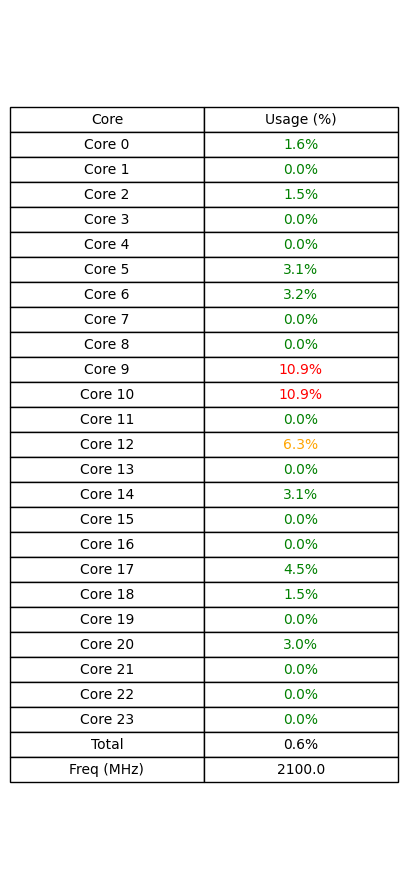
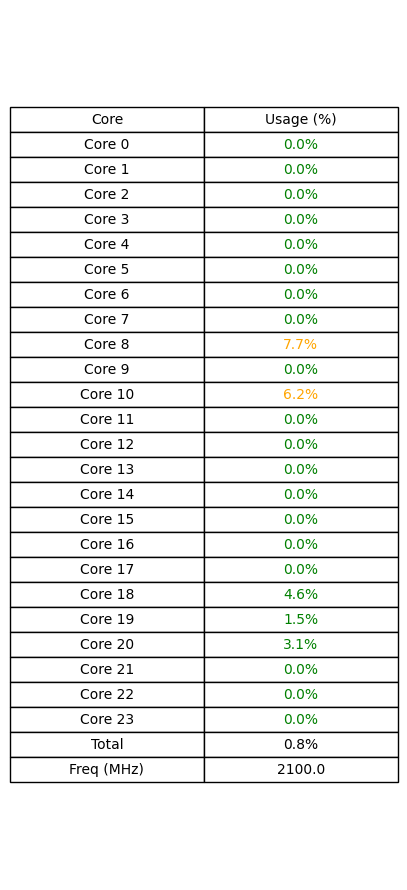
made a better graph to track cpu

diff --git a/monitor/network.py b/monitor/network.py
@@ -1,88 +1,5 @@
-import psutil
-from rich.table import Table
-from rich.console import Console
-import time
 
-def get_network_data():
-    """
-    Returns per-interface and global network usage.
-    Reports total bytes sent/received and packet counts.
-    """
-    io = psutil.net_io_counters(pernic=True)
-    summary = psutil.net_io_counters()
 
-    interfaces = []
-    for iface, stats in io.items():
-        interfaces.append({
-            "name": iface,
-            "bytes_sent": stats.bytes_sent,
-            "bytes_recv": stats.bytes_recv,
-            "packets_sent": stats.packets_sent,
-            "packets_recv": stats.packets_recv
-        })
 
-    return {
-        "interfaces": interfaces,
-        "summary": {
-            "total_sent": summary.bytes_sent,
-            "total_recv": summary.bytes_recv,
-            "total_packets_sent": summary.packets_sent,
-            "total_packets_recv": summary.packets_recv
-        }
-    }
-
-def get_network_rate(interval=1.0):
-    """
-    Measures network send/recv rate (in bytes/sec) over a given interval.
-    Returns rate in bytes/sec.
-    """
-    t0 = psutil.net_io_counters()
-    time.sleep(interval)
-    t1 = psutil.net_io_counters()
-
-    sent_rate = (t1.bytes_sent - t0.bytes_sent) / interval
-    recv_rate = (t1.bytes_recv - t0.bytes_recv) / interval
-
-    return {
-        "sent_per_sec": sent_rate,
-        "recv_per_sec": recv_rate
-    }
-
-def print_network_stats(console: Console):
-    # Pull interface stats
-    data = get_network_data()
-
-    # Print interface-level table
-    table = Table(title="Network Interfaces")
-    table.add_column("Interface", style="cyan")
-    table.add_column("Sent (MB)", justify="right")
-    table.add_column("Recv (MB)", justify="right")
-    table.add_column("Packets Sent", justify="right")
-    table.add_column("Packets Recv", justify="right")
-
-    for iface in data["interfaces"]:
-        table.add_row(
-            iface["name"],
-            f"{iface['bytes_sent'] / 1e6:.2f}",
-            f"{iface['bytes_recv'] / 1e6:.2f}",
-            f"{iface['packets_sent']}",
-            f"{iface['packets_recv']}"
-        )
-
-    console.print(table)
-
-    # Print global totals
-    summary = data["summary"]
-    console.print(f"[bold yellow]Total Sent:[/bold yellow] {summary['total_sent'] / 1e6:.2f} MB")
-    console.print(f"[bold yellow]Total Received:[/bold yellow] {summary['total_recv'] / 1e6:.2f} MB")
-
-    # Print live rate (after 1s interval)
-    rate = get_network_rate(interval=1.0)
-    console.print(f"[cyan]Send Rate:[/cyan] {rate['sent_per_sec'] / 1e6:.2f} MB/s")
-    
-    if rate['recv_per_sec'] >= 1e6:
-        console.print(f"[cyan]Receive Rate:[/cyan] {rate['recv_per_sec'] / 1e6:.2f} MB/s")
-    else:
-        console.print(f"[cyan]Receive Rate:[/cyan] {rate['recv_per_sec'] / 1e3:.2f} KB/s")
 
 

diff --git a/tables/cpu_tables.py b/tables/cpu_tables.py
@@ -1,0 +1,60 @@
+import threading
+import time
+import psutil
+import tkinter as tk
+from tkinter import ttk
+
+class LiveCPUTracker:
+    def __init__(self, callback):
+        self.callback = callback  # Function to update GUI
+        self.running = False
+
+    def start(self):
+        self.running = True
+        threading.Thread(target=self._run, daemon=True).start()
+
+    def stop(self):
+        self.running = False
+
+    def _run(self):
+        psutil.cpu_percent(interval=None)  # Prime counters
+        while self.running:
+            usage_per_core = psutil.cpu_percent(interval=1.0, percpu=True)
+            total_usage = sum(usage_per_core) / len(usage_per_core)
+            freq = psutil.cpu_freq()
+            data = {
+                "usage_per_core": usage_per_core,
+                "total_usage": total_usage,
+                "freq": freq.current if freq else None,
+            }
+            self.callback(data)  # Let GUI update safely
+
+class LiveCPUTable(ttk.Frame):
+    def __init__(self, parent):
+        super().__init__(parent)
+        self.tree = ttk.Treeview(self, columns=("Core", "Usage"), show="headings", height=10)
+        self.tree.heading("Core", text="Core")
+        self.tree.heading("Usage", text="Usage (%)")
+        self.tree.pack(expand=True, fill="both")
+        self.cpu_tracker = LiveCPUTracker(self.schedule_update)
+        self.cpu_tracker.start()
+
+    def schedule_update(self, data):
+        self.after(0, lambda: self.update_table(data))  # Schedule safely on main thread
+
+    def update_table(self, data):
+        self.tree.delete(*self.tree.get_children())
+        for i, usage in enumerate(data["usage_per_core"]):
+            self.tree.insert("", "end", values=(f"Core {i}", f"{usage:.1f}%"))
+        self.tree.insert("", "end", values=("Total", f"{data['total_usage']:.1f}%"))
+        self.tree.insert("", "end", values=("Freq", f"{data['freq']:.1f} MHz"))
+
+if __name__ == "__main__":
+    root = tk.Tk()
+    root.geometry("300x400")
+    root.title("CPU Monitor")
+
+    cpu_widget = LiveCPUTable(root)
+    cpu_widget.pack(expand=True, fill="both")
+
+    root.mainloop()

diff --git a/monitor/alerts.py b/monitor/alerts.py
@@ -41,18 +41,7 @@ def check_bottlenecks(console: Console):
 
     disk_usages = {p["mountpoint"]: p["percent"] for p in disk_data["partitions"]}
 
-    # Network bottleneck (basic threshold for high activity)
-    rate_data = network.get_network_rate()
-    sent_rate = rate_data["sent_per_sec"]
-    recv_rate = rate_data["recv_per_sec"]
-
-    if recv_rate > rate_threshold or sent_rate > rate_threshold:
-        alerts.append(f"🌐 [bold red]High Network bandwidth:[/bold red] Send {sent_rate / 1e6:.2f} MB/s, Recv {recv_rate / 1e6:.2f} MB/s")
-
-    net_summary = {
-    "sent": sent_rate,
-    "recv": recv_rate
-    }
+    
 
     # Output
     if alerts:
@@ -61,9 +50,9 @@ def check_bottlenecks(console: Console):
         console.print(Panel.fit("✅ All systems within normal limits", title="System Status", style="green"))
 
     # Summary chart
-    print_usage_summary(console, cpu_usage, mem_usage, disk_usages, net_summary)
+    print_usage_summary(console, cpu_usage, mem_usage, disk_usages)
 
-def print_usage_summary(console, cpu_usage, mem_usage, disk_usages, net_summary):
+def print_usage_summary(console, cpu_usage, mem_usage, disk_usages):
     table = Table(title="Component Usage Summary")
     table.add_column("Component", style="cyan")
     table.add_column("Usage", justify="right", style="magenta")
@@ -72,9 +61,6 @@ def print_usage_summary(console, cpu_usage, mem_usage, disk_usages, net_summary)
     table.add_row("Memory", f"{mem_usage:.1f}%")
     for part, usage in disk_usages.items():
         table.add_row(f"Disk {part}", f"{usage:.1f}%")
-
-    table.add_row("Net Sent", f"{net_summary['sent'] / 1e6:.1f} MB")
-    table.add_row("Net Recv", f"{net_summary['recv'] / 1e6:.1f} MB")
 
     console.print(table)
 

diff --git a/main.py b/main.py
@@ -1,0 +1,29 @@
+import sys
+import os
+import tkinter as tk
+from tkinter import ttk
+from PIL import Image, ImageTk
+
+sys.path.insert(0, os.path.abspath(os.path.join(os.path.dirname(__file__), '.')))
+
+from tables import cpu_tables
+
+class SystemMonitorApp(tk.Tk):
+    def __init__(self):
+        super().__init__()
+        self.title("System Monitor Tool")
+        self.geometry("600x800")
+        self.configure(bg='#1e1e1e')
+
+        self.create_widgets()
+
+    def create_widgets(self):
+        title = ttk.Label(self, text="System Monitor", font=("Segoe UI", 16))
+        title.pack(pady=10)
+
+        chart_frame = cpu_tables.LiveCPUChart(self)
+        chart_frame.pack(pady=10)
+
+if __name__ == "__main__":
+    app = SystemMonitorApp()
+    app.mainloop()

diff --git a/monitor/cpu.py b/monitor/cpu.py
@@ -1,15 +1,12 @@
 import psutil
-import pandas as pd
 from rich.table import Table
 from rich.console import Console
 
 def get_cpu_data():
 
-    # Get usage for each logical core over 1 second
-    usage_per_core = psutil.cpu_percent(interval=1, percpu=True)
+    usage_per_core = psutil.cpu_percent(interval=None, percpu=True)
 
-    # Get total CPU usage over 1 second
-    total_usage = psutil.cpu_percent(interval=1)
+    total_usage = psutil.cpu_percent(interval=None)
 
     # Get current, min, and max CPU frequency
     freq = psutil.cpu_freq()

diff --git a/Readme.md b/Readme.md
@@ -107,5 +107,25 @@ Enable time-series storage to review long-term performance and resource patterns
 Minimal UX impact—users can enable/disable monitoring via the system tray with one click.
 
 
+## 🆕 Performance Helper Features (Planned)
 
+🔍 **High-Usage Process Finder**  
+Detects and displays the top processes using CPU and memory to help the user identify what can be safely closed.
 
+🚫 **Startup Load Analyzer**  
+Lists programs configured to start on system boot, allowing users to manually disable unwanted bloatware.
+
+🌐 **Network Drain Detector**  
+Identifies apps or processes with the highest network activity to help pinpoint background data hogs.
+
+🧩 **Idle Resource Report**  
+Flags apps consuming significant resources even when the user is idle—useful for catching memory leaks or runaway processes.
+
+🔋 **Power Efficiency Warning (Laptop only)**  
+Detects high system load while on battery and suggests switching to power-saver mode to preserve energy.
+
+📉 **FPS Tracking and Logging**  
+Integrate frame rate monitoring using tools like PresentMon to track FPS and help users identify GPU/CPU limitations.
+
+🎞 **Post-Process AI Frame Interpolation (RIFE)**  
+Offer an optional tool to smooth recorded gameplay by generating interpolated frames using AI (offline).
